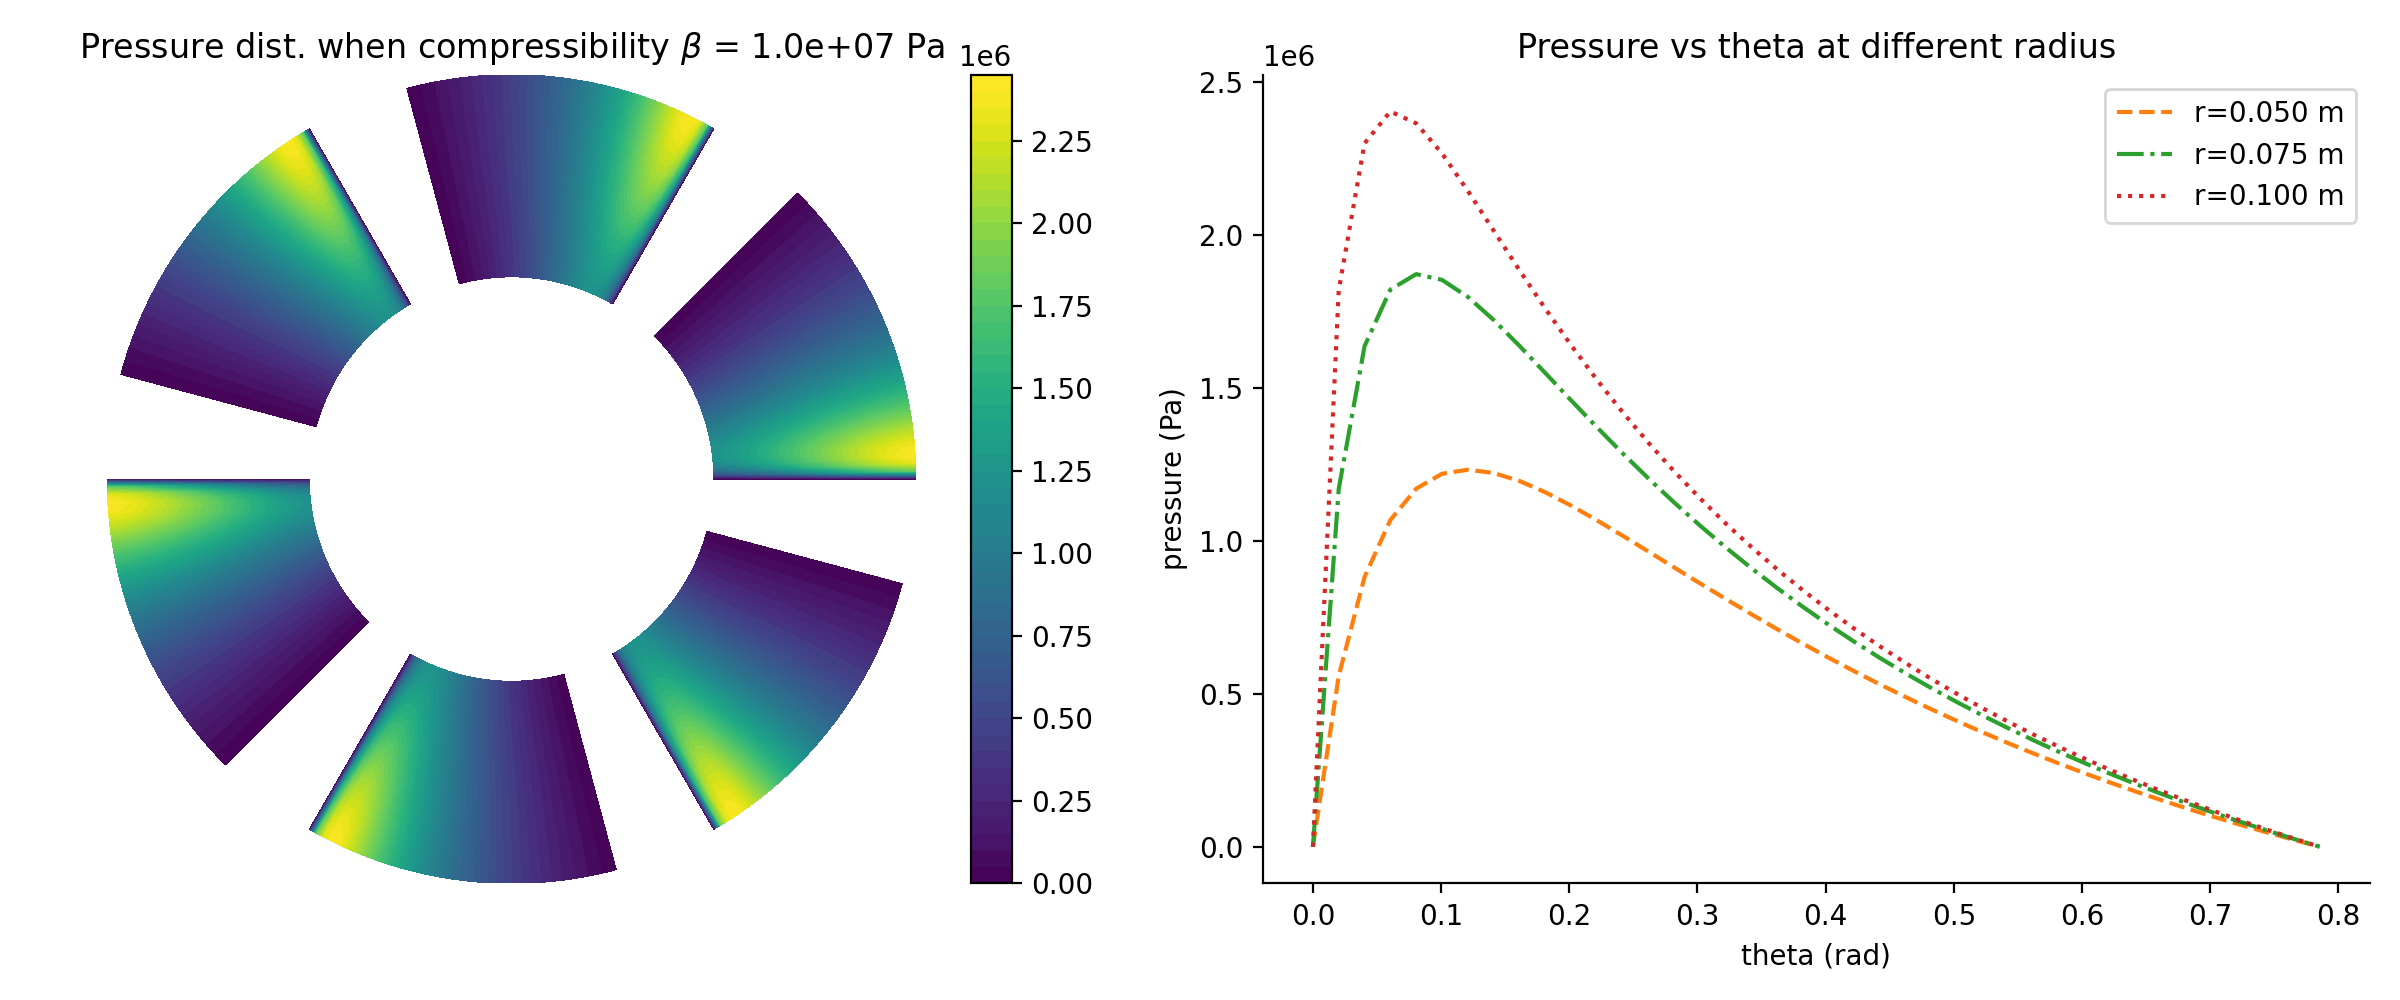
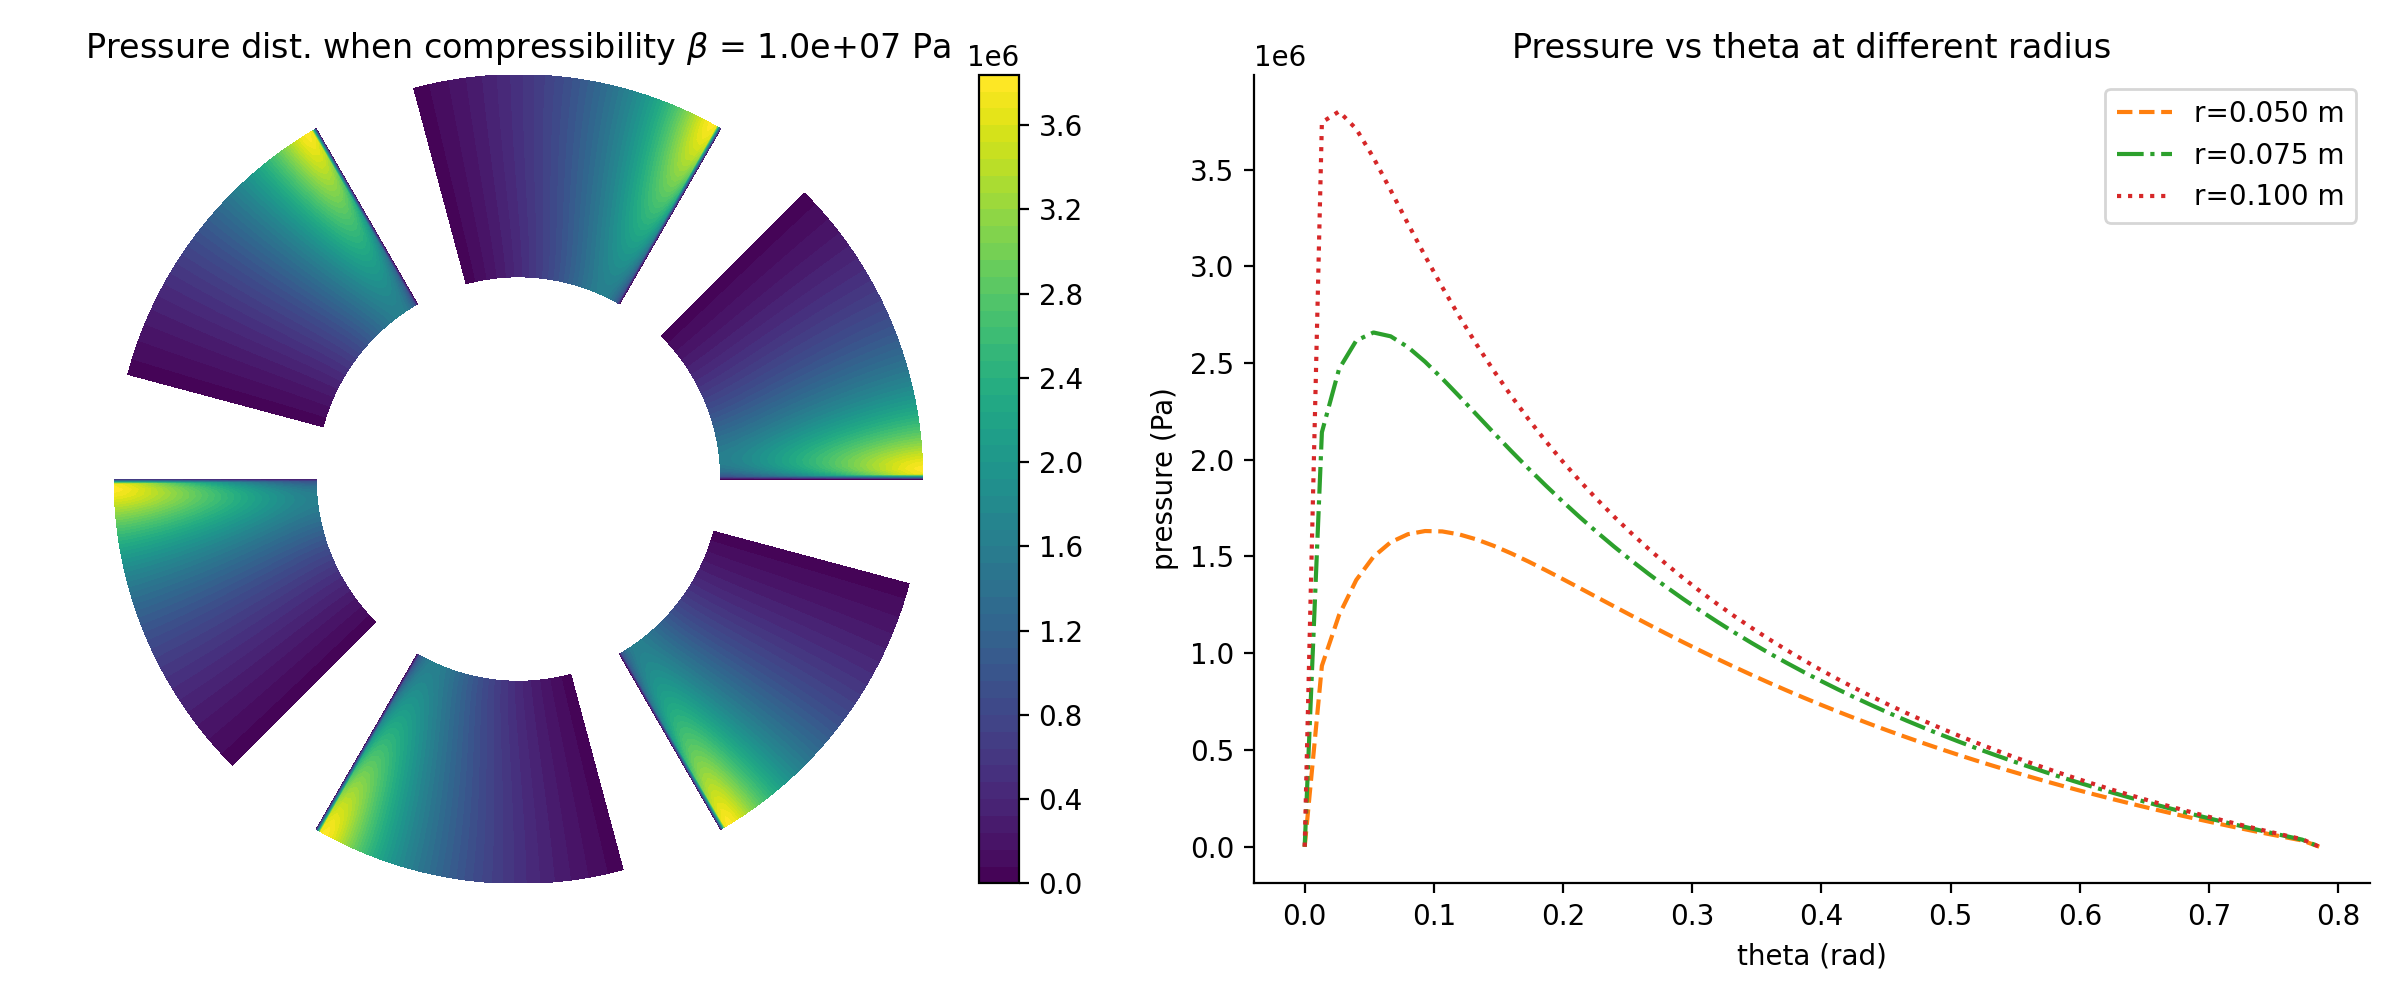
Added boundary condition option

diff --git a/src/compressible_flow.py b/src/compressible_flow.py
@@ -16,6 +16,7 @@ def compressible_flow(
     Delta_theta=np.pi / 4,
     hL=50e-6,
     hT=10e-6,
+    boundary=False,
     rho_a=1.2,
     p_a=101325,
     beta=1e6,  # 2e6
@@ -50,6 +51,8 @@ def compressible_flow(
         leading edge gap height [m]
     hT : float
         trailing edge gap height [m]
+    boundary : bool
+        include Dirichlet boundary condition or not
     rho_a : float
         reference density [kg/m^3]
     p_a : float
@@ -79,7 +82,11 @@ def compressible_flow(
     h_r_theta = lambda r, theta: hT + (hL - hT) * (r * theta / L)
     idx = lambda i, j: i * Ntheta + j
 
-    TH, RR = np.meshgrid(theta, r)
+    TH, RR = np.zeros(Ntheta+2), np.zeros(Nr+2)
+    TH[1:-1], RR[1:-1] = theta, r
+    TH[0], TH[-1], = -dtheta, Delta_theta+dtheta
+    RR[0], RR[-1] = r_in-dr, r_out+dr
+    TH, RR = np.meshgrid(TH, RR)
     H = h_r_theta(RR, TH)
     H3 = H**3  # Precompute H^3
 
@@ -100,53 +107,49 @@ def compressible_flow(
         b = np.zeros(N)
         rho_all = rho_of_p(p_vec)
 
-        for i in range(Nr):
-            ri = r[i]
-            for j in range(Ntheta):
-                k = idx(i, j)
+        for i in range(1, Nr+1):
+            ri = r[i-1]
+            for j in range(1, Ntheta+1):
+                k = idx(i-1, j-1)
+                
+                if boundary:
+                    if j == 1 or j == Ntheta:
+                        rows.append(k)
+                        cols.append(k)
+                        vals.append(1.0)
+                        b[k] = 0.0
+                        continue
+                    
+                    if i == 1 or i == Nr:
+                        rows.append(k)
+                        cols.append(k)
+                        vals.append(1.0)
+                        b[k] = 0.0
+                        continue
 
-                # Theta boundaries: Dirichlet p=0
-                if j == 0 or j == Ntheta - 1:
-                    rows.append(k)
-                    cols.append(k)
-                    vals.append(1.0)
-                    b[k] = 0.0
-                    continue
-
-                # Theta-term coefficients (use rho * H^3)
-                Hm_rho = rho_all[idx(i, j - 1)] * H3[i, j - 1]
-                Hp_rho = rho_all[idx(i, j + 1)] * H3[i, j + 1]
-
-                A_m = coef_const * Hm_rho / ri
-                A_p = coef_const * Hp_rho / ri
-
+                # Theta-term coefficients
+                Hm = H3[i, j - 1]
+                Hp = H3[i, j + 1]
+                A_m = coef_const * Hm / ri
+                A_p = coef_const * Hp / ri
                 theta_m_coef = -A_m / (dtheta * dtheta)
                 theta_p_coef = -A_p / (dtheta * dtheta)
                 theta_c_coef = -(theta_m_coef + theta_p_coef)
 
-                # Radial-term coefficients: d/dr( (rho*H^3/(12 mu)) * r * dp/dr )
-                if 0 < i < Nr - 1:
-                    H_im_rho = rho_all[idx(i - 1, j)] * H3[i - 1, j]
-                    H_ip_rho = rho_all[idx(i + 1, j)] * H3[i + 1, j]
-                    B_im = coef_const * H_im_rho * r[i - 1]
-                    B_ip = coef_const * H_ip_rho * r[i + 1]
-                    rad_m_coef = -B_im / (dr * dr)
-                    rad_p_coef = -B_ip / (dr * dr)
-                    rad_c_coef = -(rad_m_coef + rad_p_coef)
+                # Radial-term coefficients
+                H_im = H3[i - 1, j]
+                H_ip = H3[i + 1, j]
+                if i>=2: 
+                    B_im = coef_const * H_im * r[i-2]
                 else:
-                    # Neumann dp/dr = 0 approximated with ghost point
-                    if i == 0:
-                        H_ip_rho = rho_all[idx(i + 1, j)] * H3[i + 1, j]
-                        B_ip = coef_const * H_ip_rho * r[i + 1]
-                        rad_m_coef = 0.0
-                        rad_p_coef = -B_ip / (dr * dr)
-                        rad_c_coef = -rad_p_coef
-                    else:  # i == Nr-1
-                        H_im_rho = rho_all[idx(i - 1, j)] * H3[i - 1, j]
-                        B_im = coef_const * H_im_rho * r[i - 1]
-                        rad_p_coef = 0.0
-                        rad_m_coef = -B_im / (dr * dr)
-                        rad_c_coef = -rad_m_coef
+                    B_im = 0
+                if i <= Nr-1:
+                    B_ip = coef_const * H_ip * r[i]
+                else:
+                    B_ip = 0
+                rad_m_coef = -B_im / (dr * dr)
+                rad_p_coef = -B_ip / (dr * dr)
+                rad_c_coef = -(rad_m_coef + rad_p_coef)
 
                 center = theta_c_coef + rad_c_coef
                 coef_jm = theta_m_coef
@@ -158,28 +161,29 @@ def compressible_flow(
                 rows.append(k)
                 cols.append(k)
                 vals.append(center)
-                rows.append(k)
-                cols.append(idx(i, j - 1))
-                vals.append(coef_jm)
-                rows.append(k)
-                cols.append(idx(i, j + 1))
-                vals.append(coef_jp)
-                if i - 1 >= 0:
+                if j > 1:
                     rows.append(k)
-                    cols.append(idx(i - 1, j))
+                    cols.append(idx(i-1, j-2)) #(i,j-1)
+                    vals.append(coef_jm)
+                if j < Ntheta:
+                    rows.append(k)
+                    cols.append(idx(i-1, j)) #(i,j+1)
+                    vals.append(coef_jp)
+                if i > 1:
+                    rows.append(k)
+                    cols.append(idx(i-2, j-1)) #(i-1,j)
                     vals.append(coef_im)
-                if i + 1 < Nr:
+                if i < Nr:
                     rows.append(k)
-                    cols.append(idx(i + 1, j))
+                    cols.append(idx(i, j-1)) #(i+1,j)
                     vals.append(coef_ip)
 
                 # RHS source term: (omega * r / 2) * d/dtheta( rho * h )
                 # d( rho * h )/dtheta = rho * dh/dtheta + h * d rho/dtheta
-                # approximate d rho / dtheta with central difference
+                # approximate d rho / dtheta
                 rho_c = rho_all[k]
-                rho_m = rho_all[idx(i, j - 1)]
-                rho_p = rho_all[idx(i, j + 1)]
-                drho_dtheta = (rho_p - rho_m) / (2.0 * dtheta)
+                rho_m = rho_all[idx(i-1, j-2)] #(i, j-1)
+                drho_dtheta = (rho_c - rho_m) / dtheta
 
                 dhdt = dh_dtheta(ri)
 
@@ -259,8 +263,8 @@ def compressible_flow(
         ax2.set_title("Pressure vs theta at different radius")
     ax2.spines[["top", "right"]].set_visible(False)
 
+    plt.tight_layout()
     if savefig:
-        plt.tight_layout()
         fig.savefig(os.path.join("reports", out_figure), dpi=200)
         print(f"Figure saved to: {os.path.join('reports', out_figure)}")
 
@@ -272,5 +276,7 @@ def compressible_flow(
 
 
 if __name__ == "__main__":
-    compressible_flow(beta=1e7, out_figure="compressible_flow.png")
-    compressible_flow(beta=2e6, out_figure="compressible_flow_2.png")
+    compressible_flow(beta=1e7, out_figure="compressible_flow.png", savefig=True)
+    compressible_flow(beta=4e6, out_figure="compressible_flow_2.png", savefig=True)
+    compressible_flow(beta=1e7, boundary=True, out_figure="compressible_flow_w_boundary.png", savefig=True)
+    compressible_flow(beta=4e6, boundary=True, out_figure="compressible_flow_2_w_boundary.png", savefig=True)

diff --git a/src/pressure_distribution.py b/src/pressure_distribution.py
@@ -15,6 +15,7 @@ def pressure_distribution(
     Delta_theta=np.pi / 4,
     hL=50e-6,
     hT=10e-6,
+    boundary=False,
     plot_title=True,
     savefig=False,
     out_figure="pressure_contours.png",
@@ -44,6 +45,8 @@ def pressure_distribution(
         leading edge gap height [m]
     hT : float
         trailing edge gap height [m]
+    boundary : bool
+        include Dirichlet boundary condition or not
     plot_title : bool
         include titles in plots or not
     out_figure : str
@@ -61,7 +64,11 @@ def pressure_distribution(
     h_r_theta = lambda r, theta: hT + (hL - hT) * (r * theta / L)
     idx = lambda i, j: i * Ntheta + j
 
-    TH, RR = np.meshgrid(theta, r)
+    TH, RR = np.zeros(Ntheta+2), np.zeros(Nr+2)
+    TH[1:-1], RR[1:-1] = theta, r
+    TH[0], TH[-1], = -dtheta, Delta_theta+dtheta
+    RR[0], RR[-1] = r_in-dr, r_out+dr
+    TH, RR = np.meshgrid(TH, RR)
     H = h_r_theta(RR, TH)
     H3 = H**3  # Precompute H^3
 
@@ -75,52 +82,49 @@ def pressure_distribution(
     coef_const = 1 / (12 * mu)
     dh_dtheta = lambda radius: (hL - hT) * radius / (r_out * Delta_theta)
 
-    for i in range(Nr):
-        ri = r[i]
-        for j in range(Ntheta):
-            k = idx(i, j)
+    for i in range(1, Nr+1):
+        ri = r[i-1]
+        for j in range(1, Ntheta+1):
+            k = idx(i-1, j-1)
+            
+            if boundary:
+                if j == 1 or j == Ntheta:
+                    rows.append(k)
+                    cols.append(k)
+                    vals.append(1.0)
+                    b[k] = 0.0
+                    continue
+                
+                if i == 1 or i == Nr:
+                    rows.append(k)
+                    cols.append(k)
+                    vals.append(1.0)
+                    b[k] = 0.0
+                    continue
 
-            # Theta boundaries: Dirichlet p=0
-            if j == 0 or j == Ntheta - 1:
-                rows.append(k)
-                cols.append(k)
-                vals.append(1.0)
-                b[k] = 0.0
-                continue
-
-            # Theta-term coefficients (variable H)
+            # Theta-term coefficients
             Hm = H3[i, j - 1]
             Hp = H3[i, j + 1]
             A_m = coef_const * Hm / ri
             A_p = coef_const * Hp / ri
-
             theta_m_coef = -A_m / (dtheta * dtheta)
             theta_p_coef = -A_p / (dtheta * dtheta)
             theta_c_coef = -(theta_m_coef + theta_p_coef)
 
-            # Radial-term coefficients: d/dr( (H^3/(12 mu)) * r * dp/dr )
-            if 0 < i < Nr - 1:
-                H_im = H3[i - 1, j]
-                H_ip = H3[i + 1, j]
-                B_im = coef_const * H_im * r[i - 1]
-                B_ip = coef_const * H_ip * r[i + 1]
-                rad_m_coef = -B_im / (dr * dr)
-                rad_p_coef = -B_ip / (dr * dr)
-                rad_c_coef = -(rad_m_coef + rad_p_coef)
+            # Radial-term coefficients
+            H_im = H3[i - 1, j]
+            H_ip = H3[i + 1, j]
+            if i>=2: 
+                B_im = coef_const * H_im * r[i-2]
             else:
-                # Neumann dp/dr = 0: approximate with ghost point p_{-1}=p_{1} at i=0 etc.
-                if i == 0:
-                    H_ip = H3[i + 1, j]
-                    B_ip = coef_const * H_ip * r[i + 1]
-                    rad_m_coef = 0.0
-                    rad_p_coef = -B_ip / (dr * dr)
-                    rad_c_coef = -rad_p_coef
-                else:  # i == Nr-1
-                    H_im = H3[i - 1, j]
-                    B_im = coef_const * H_im * r[i - 1]
-                    rad_p_coef = 0.0
-                    rad_m_coef = -B_im / (dr * dr)
-                    rad_c_coef = -rad_m_coef
+                B_im = 0
+            if i <= Nr-1:
+                B_ip = coef_const * H_ip * r[i]
+            else:
+                B_ip = 0
+            rad_m_coef = -B_im / (dr * dr)
+            rad_p_coef = -B_ip / (dr * dr)
+            rad_c_coef = -(rad_m_coef + rad_p_coef)
 
             center = theta_c_coef + rad_c_coef
             coef_jm = theta_m_coef
@@ -132,19 +136,21 @@ def pressure_distribution(
             rows.append(k)
             cols.append(k)
             vals.append(center)
-            rows.append(k)
-            cols.append(idx(i, j - 1))
-            vals.append(coef_jm)
-            rows.append(k)
-            cols.append(idx(i, j + 1))
-            vals.append(coef_jp)
-            if i - 1 >= 0:
+            if j > 1:
                 rows.append(k)
-                cols.append(idx(i - 1, j))
+                cols.append(idx(i-1, j-2)) #(i,j-1)
+                vals.append(coef_jm)
+            if j < Ntheta:
+                rows.append(k)
+                cols.append(idx(i-1, j)) #(i,j+1)
+                vals.append(coef_jp)
+            if i > 1:
+                rows.append(k)
+                cols.append(idx(i-2, j-1)) #(i-1,j)
                 vals.append(coef_im)
-            if i + 1 < Nr:
+            if i < Nr:
                 rows.append(k)
-                cols.append(idx(i + 1, j))
+                cols.append(idx(i, j-1)) #(i+1,j)
                 vals.append(coef_ip)
 
             # RHS source term from rotation: (omega * r / 2) * dh/dtheta
@@ -202,11 +208,12 @@ def pressure_distribution(
         print(f"Figure saved to: {os.path.join('reports', out_figure)}")
 
     # Print simple diagnostics
-    print("Peak pressure (after clipping) [Pa]:", np.max(P_clip))
-    print("Mean pressure (after clipping) [Pa]:", np.mean(P_clip))
+    print("Peak pressure [Pa]:", np.max(P_clip))
+    print("Mean pressure [Pa]:", np.mean(P_clip))
 
     plt.show()
 
 
 if __name__ == "__main__":
-    pressure_distribution()
+    pressure_distribution(savefig=True)
+    pressure_distribution(boundary=True, savefig=True, out_figure="pressure_contours_w_boundary.png")
